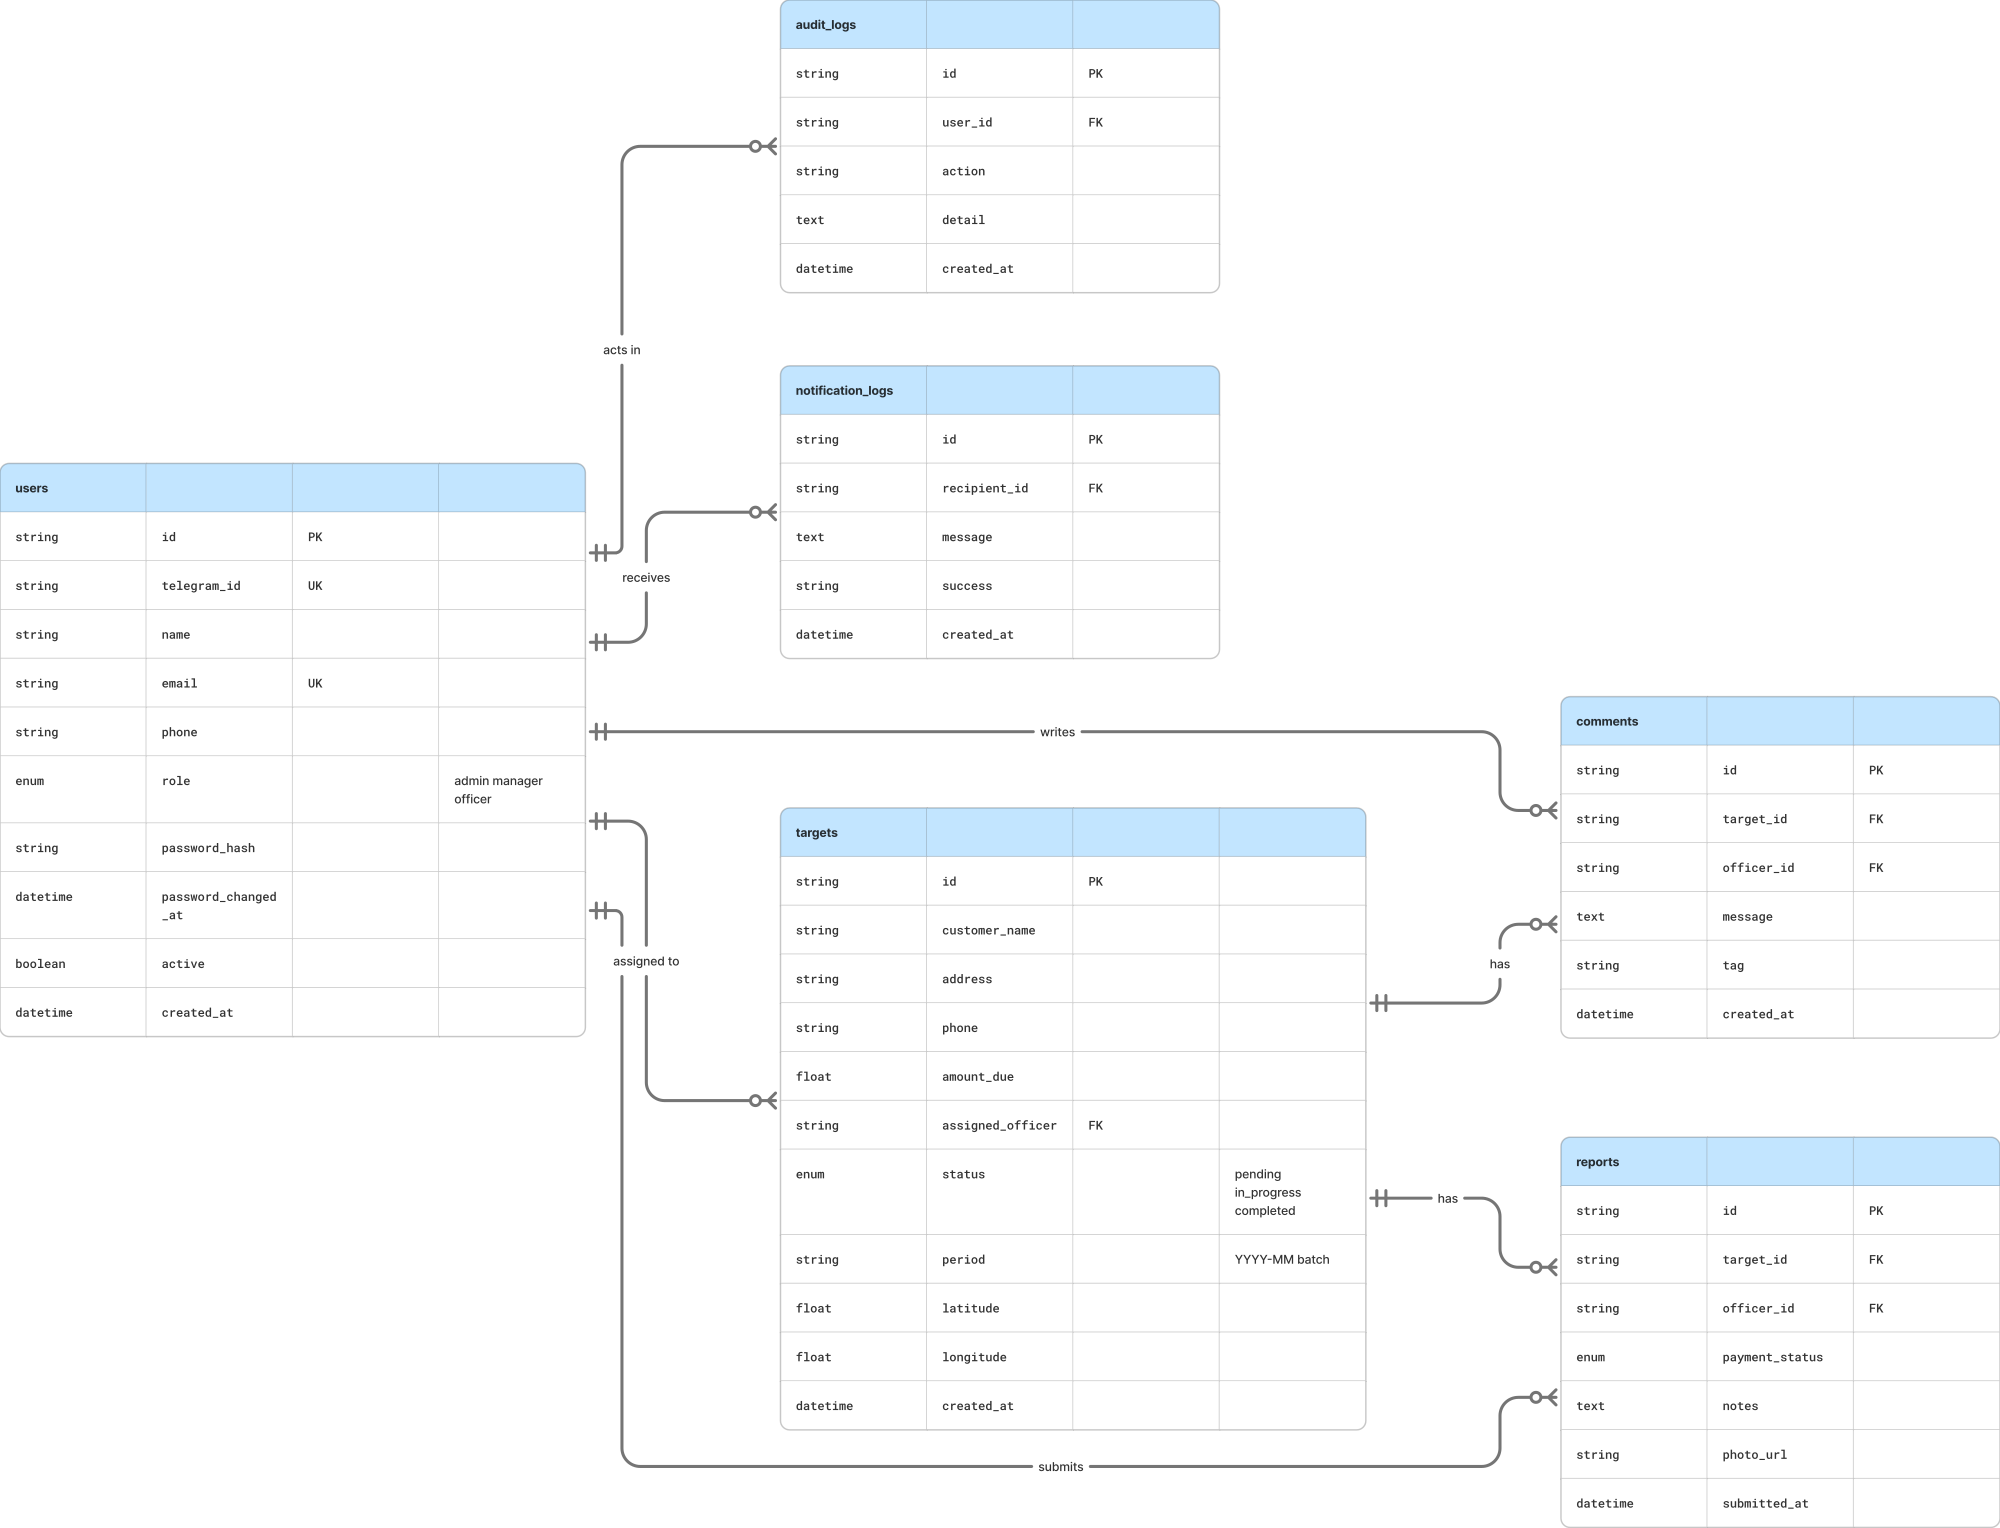
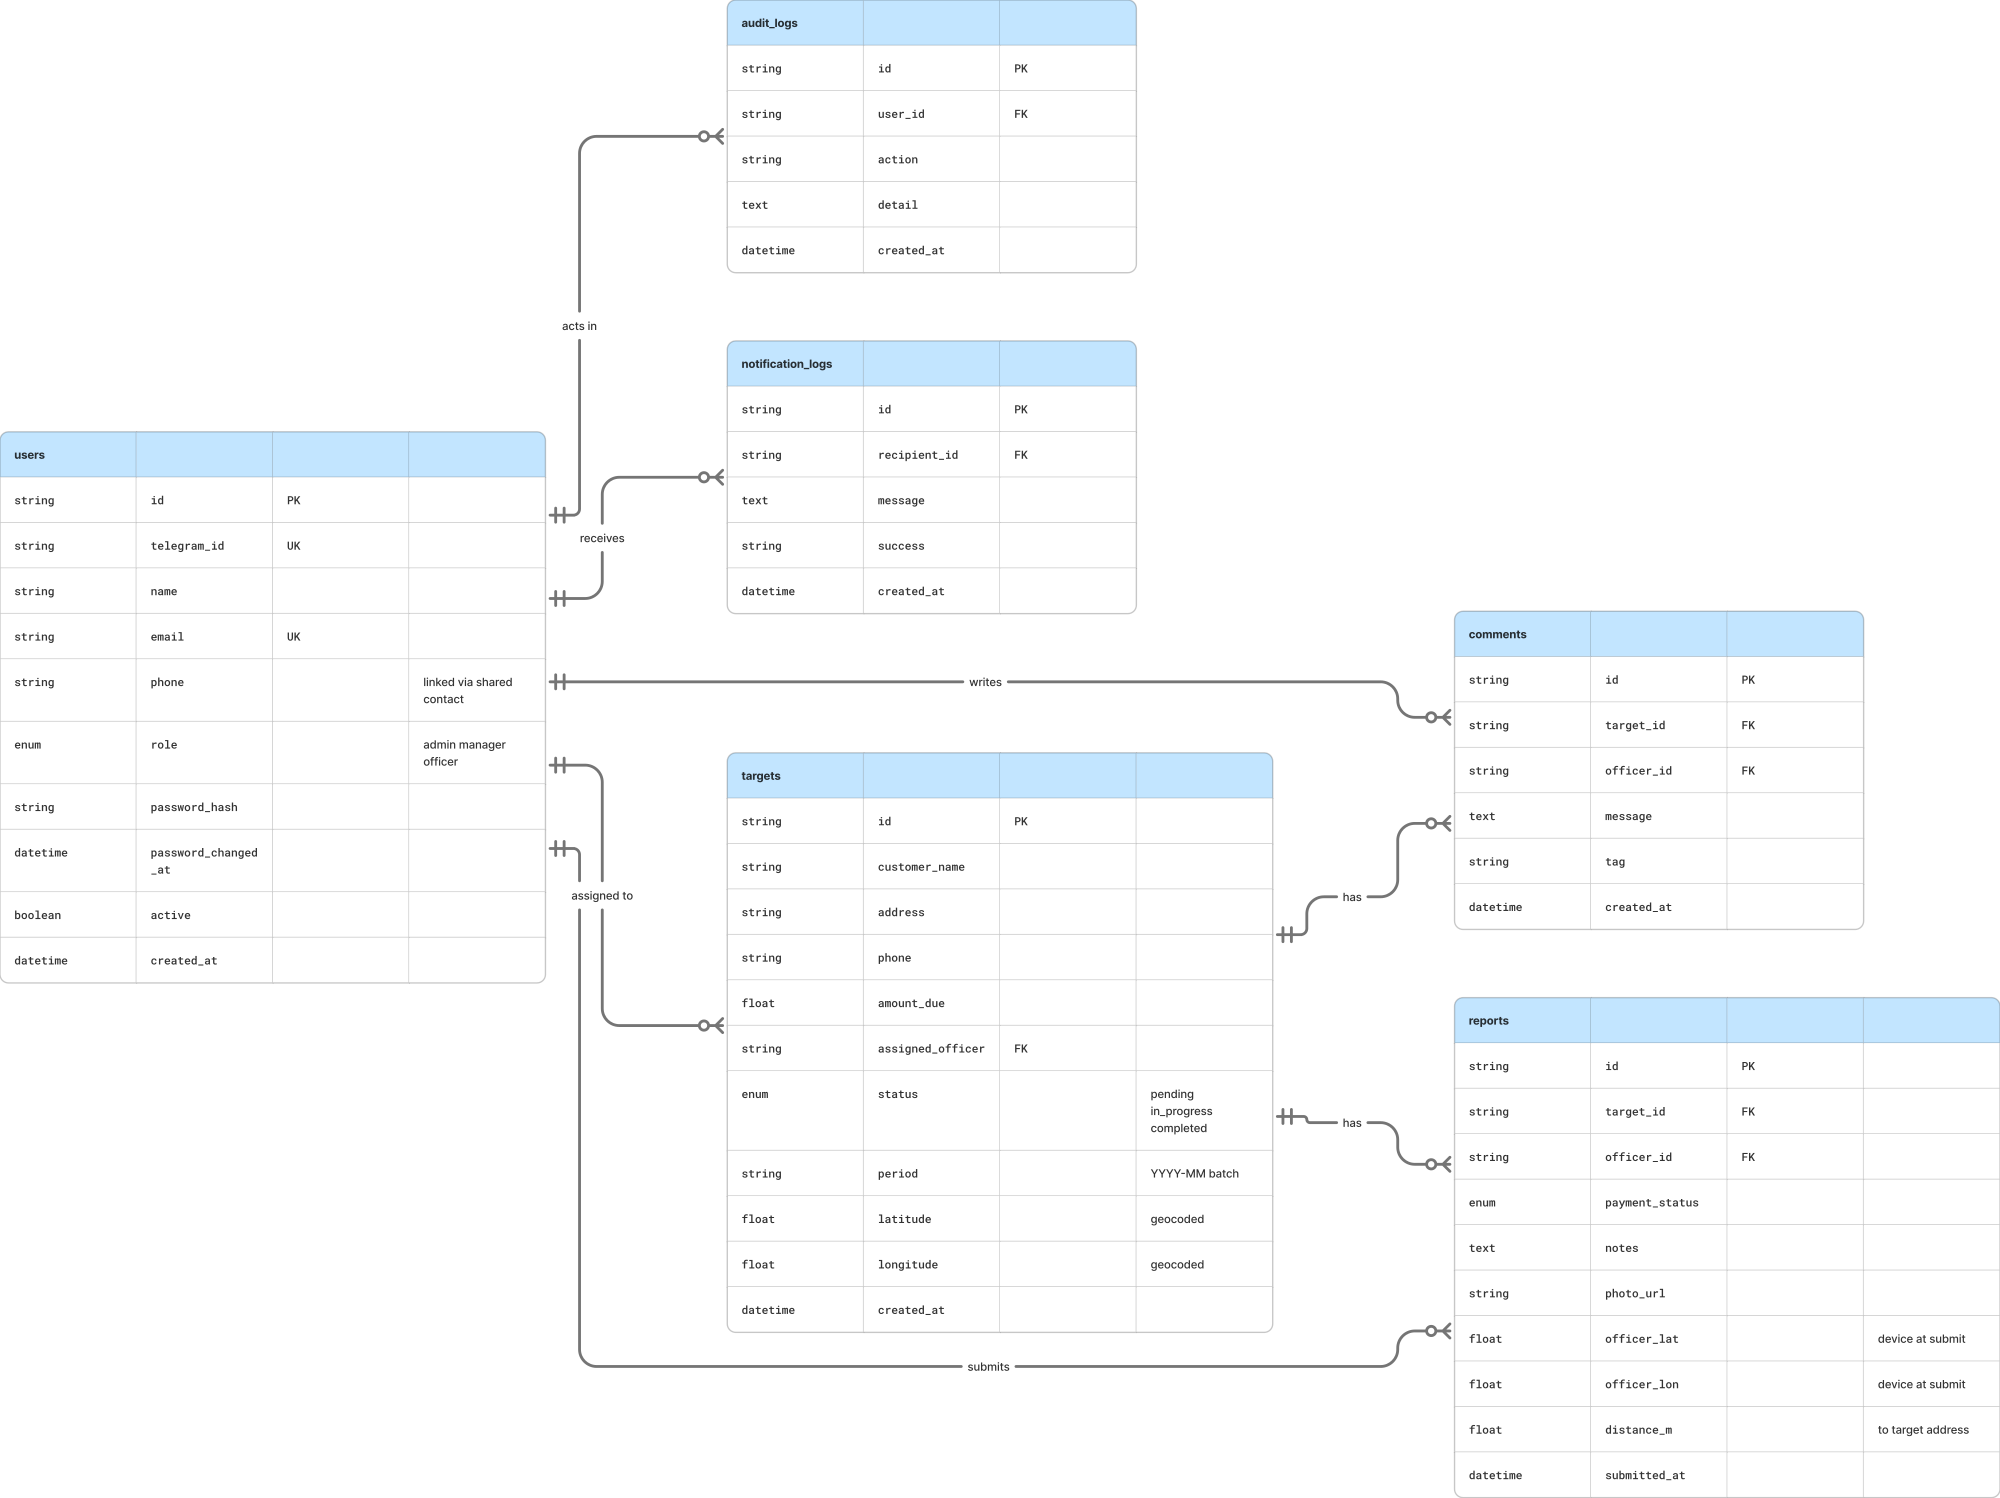
Selaraskan dokumen dengan sistem setelah empat fitur baru
Fitur baru membuat dokumen tertinggal, dan yang paling mudah ditangkap penguji
justru dokumen yang bertentangan dengan dirinya sendiri.

ERD dibuat ulang: `reports` kini memuat officer_lat, officer_lon, distance_m;
`users` memuat phone. Diganti di uml/images, di laporan Rashad, dan pada DUA
XObject terpisah di Group Report.

Table 3.1 (model data) masih mendaftar kolom `reports` yang lama dan menulis
peran sebagai {manager, officer} — bertentangan dengan gambar ERD tepat di
bawahnya dan dengan peran admin yang justru diminta penguji. Diperbaiki.

Jumlah endpoint router 25 → 28 (auth bertambah forgot-password, reset-password,
login-2fa). Tabel daftar endpoint dapat tiga baris baru, disalin dari baris
terakhir agar format sel dan bordernya ikut.

Listing kode di lampiran Rashad dan Auza masih memuat
app.mount("/api/uploads", StaticFiles(...)) — baris yang dihapus demi keamanan,
sehingga lampirannya bertentangan dengan bab keamanannya sendiri. Diganti dengan
kode yang berjalan sekarang.

Diperiksa ulang dengan pemindai pola: ketiga laporan bersih. Satu "temuan"
terakhir ternyata positif palsu pemindainya sendiri — polanya masih cocok dengan
potongan kalimat yang sudah diperbaiki.

Klaim yang DIPERIKSA dan ternyata masih benar, jadi tidak disentuh: "fourteen AI
agent tools" (TOOL_DEFINITIONS = 14), "six tables" (kolom bertambah, tabel tidak),
"seven routers", dan "the two roles" di laporan Atthariqul yang merujuk dua
kelompok responden kuesioner UAT, bukan peran sistem.

diff --git a/uml/FIGMA_SOURCES.md b/uml/FIGMA_SOURCES.md
@@ -12,7 +12,7 @@ karena hasilnya akan menimpa ekspor Figma dengan gambar PIL versi lama.
 | `05_sequence_diagram.png`    | https://www.figma.com/board/2UydRoLKcxsAQn4qcdLGB4 |
 | `07_usecase_diagram.png`     | https://www.figma.com/board/KKDL2BOEQBacJ7K5Dg9ay3 |
 | `08_activity_diagram.png`    | https://www.figma.com/board/wNd03DkWGvah1oam78GNpw |
-| `09_erd_diagram.png`         | https://www.figma.com/board/bmJL8pkuyCv9hcjSLzNS0U |
+| `09_erd_diagram.png`         | https://www.figma.com/board/2rrXo0SH1dqTMov0PUvq4F |
 | `10_dfd_level0.png`          | https://www.figma.com/board/fOy4kijezSJ6js15Tu9t9z |
 
 ## Koreksi fakta yang ikut dikerjakan
@@ -48,6 +48,17 @@ berasio tegak (0,71); tiga kolom yang melebar akan terlalu banyak bermargin di s
 nama lapisannya hanya ada sebagai id grup di dalam SVG dan tidak pernah digambar.
 Judul "Client Tier", "Application Tier", dan seterusnya disisipkan sebagai elemen
 `<text>` ke dalam SVG lalu di-render ulang, bukan dicap ke PNG, supaya tetap tajam.
+
+## Sinkron dengan kode
+
+Diagram dan dokumen ikut diperbarui setiap kali skema atau permukaan API berubah.
+Terakhir (10 Agu 2026): `reports` mendapat `officer_lat`, `officer_lon`, dan
+`distance_m` untuk verifikasi lokasi kunjungan, dan jumlah endpoint router naik
+25 → 28. ERD, Table 3.1, Table 4.1, serta listing kode di lampiran laporan Rashad
+dan Auza sudah disesuaikan.
+
+Board ERD lama (`bmJL8pkuyCv9hcjSLzNS0U`) sudah usang — pakai yang tercantum di
+tabel di atas.
 
 ## Yang masih perlu dikerjakan
 
